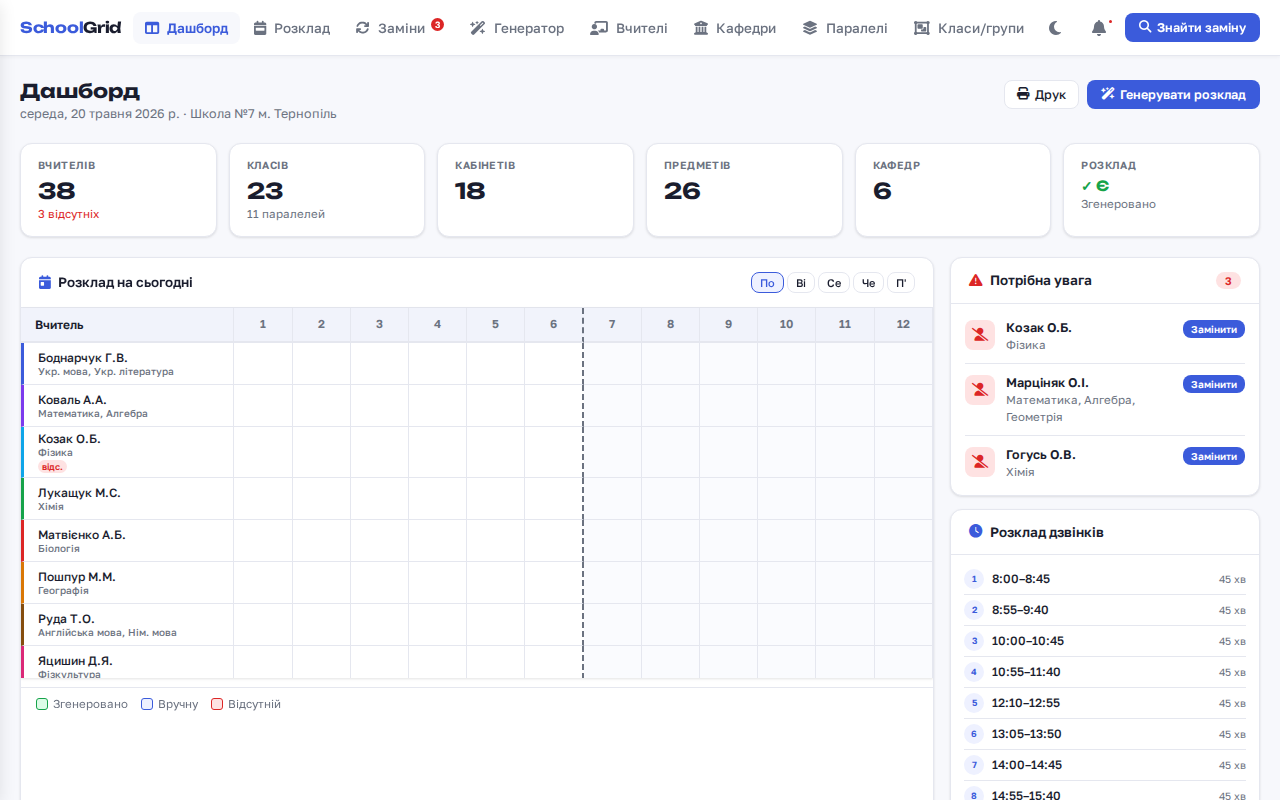
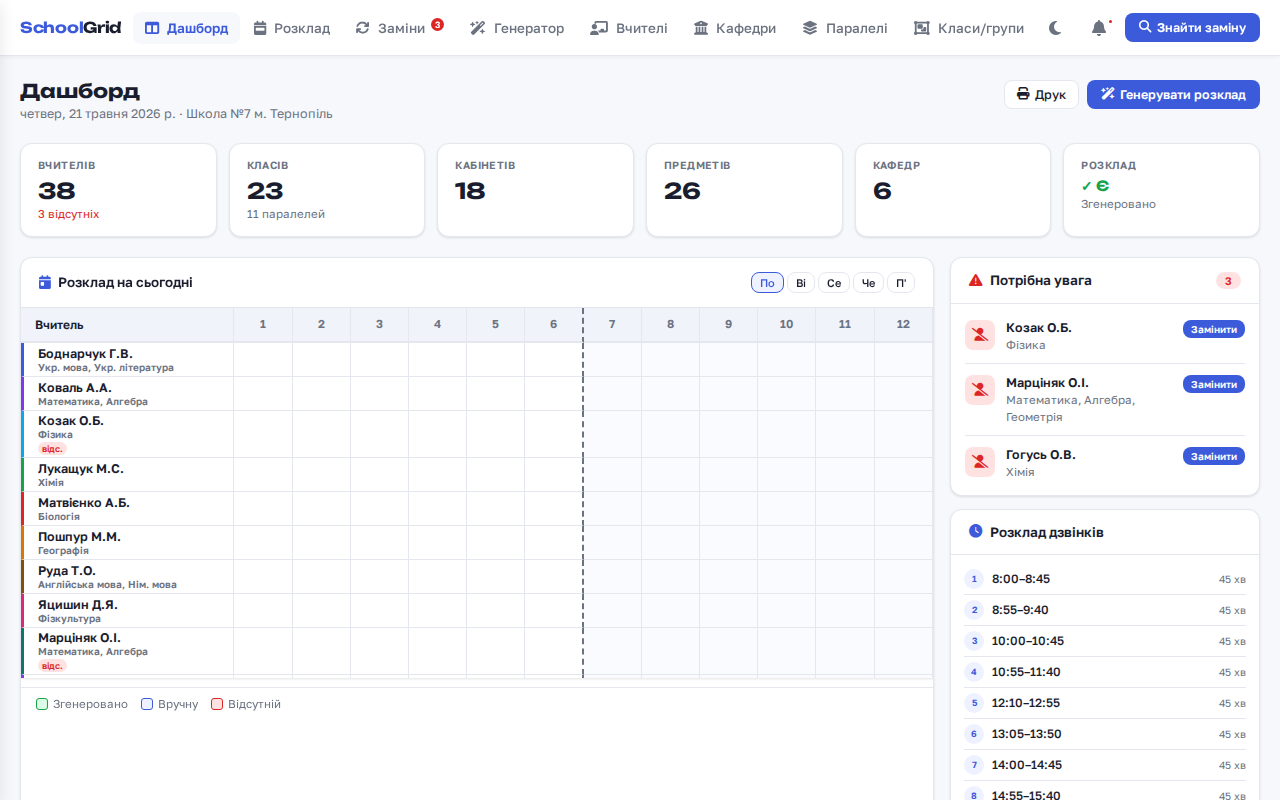
Upgrade SchoolGrid to support 12-lesson days, shifts, and capacity planning
Key changes:
- Expanded lesson count to 12 and updated BELLS data.
- Implemented class shifts (Shift 1: 1-7, Shift 2: 6-12) with 'Shift respect' constraint.
- Added 'No class windows' constraint for contiguous class schedules.
- Added room capacity checks based on student counts in groups.
- Improved UI readability: larger fonts, compact grid heights, and shift/day separators.
- Enhanced Dashboard rendering and fixed sticky header overlaps.
- Added data migration for existing 8-lesson schedules.
- Verified visual changes and generation logic via Playwright.

Changed region(s): [[0.0, 0.4375, 0.1562, 0.875], [0.0312, 0.125, 0.25, 0.1562]]

diff --git a/styles/main.css b/styles/main.css
@@ -97,26 +97,27 @@ table.grid thead th{border-bottom:2px solid var(--border)}
 table.grid th.tc{text-align:left;min-width:170px;padding-left:14px;font-size:12px;text-transform:none;color:var(--text);letter-spacing:0;font-weight:700;position:sticky;left:0;z-index:11}
 table.grid thead tr:nth-child(1) th.tc { z-index: 12 }
 table.grid thead tr:nth-child(2) th.tc { z-index: 12; top: 35px }
-table.grid td{padding:4px 3px;border-bottom:1px solid var(--border);border-right:1px solid var(--border);vertical-align:middle;text-align:center;min-width:48px;height:42px}
-table.grid td.tn{text-align:left;padding:4px 4px 4px 14px;font-weight:500;font-size:12px;background:var(--white);position:sticky;left:0;z-index:1;min-width:155px;cursor:pointer;border-left:3px solid transparent}
+table.grid td{padding:2px 2px;border-bottom:1px solid var(--border);border-right:1px solid var(--border);vertical-align:middle;text-align:center;min-width:48px;height:34px}
+table.grid td.tn{text-align:left;padding:2px 4px 2px 14px;font-weight:600;font-size:12.5px;background:var(--white);position:sticky;left:0;z-index:1;min-width:155px;cursor:pointer;border-left:3px solid transparent}
 table.grid td.tn:hover{background:var(--accl)}
 table.grid tr:hover td:not(.tn){background:#fafbff}
 table.grid tr:last-child td{border-bottom:none}
 
 /* Lesson cells */
-.lc{background:var(--accl);color:var(--acc);border-radius:4px;padding:4px 6px;font-weight:700;font-size:14px;cursor:pointer;transition:.12s;line-height:1.1;display:flex;flex-direction:column;align-items:center;min-width:48px;text-align:center;gap:1px;box-shadow: 0 1px 2px rgba(0,0,0,0.1)}
+.lc{background:var(--accl);color:var(--acc);border-radius:4px;padding:2px 4px;font-weight:700;font-size:15px;cursor:pointer;transition:.12s;line-height:1.1;display:flex;flex-direction:column;align-items:center;min-width:48px;text-align:center;gap:0;box-shadow: 0 1px 2px rgba(0,0,0,0.1)}
 .lc:hover{background:var(--acc);color:#fff;transform:scale(1.05);z-index:5;position:relative}
 .lc.lab{background:var(--errbg);color:var(--err)}
 .lc.lgen{background:var(--okbg);color:var(--ok)}
 .lc.lgrp{background:var(--purbg);color:var(--pur)}
-.lnum{font-size:10.5px;opacity:.7;display:block;line-height:1;margin-top:2px}
-.lroom{font-size:11.5px;font-weight:800;opacity:1;margin-top:1px;background:rgba(255,255,255,0.4);padding:1px 3px;border-radius:3px;color:inherit;border:1px solid rgba(0,0,0,0.05)}
-.lgroup{font-size:11px;font-style:italic;line-height:1;font-weight:600;color:inherit;opacity:0.85}
+.lnum{font-size:10px;opacity:.7;display:block;line-height:1;margin-top:1px}
+.lroom{font-size:12.5px;font-weight:800;opacity:1;margin-top:0;background:rgba(255,255,255,0.4);padding:1px 4px;border-radius:3px;color:inherit;border:1px solid rgba(0,0,0,0.05)}
+.lgroup{font-size:12px;font-style:italic;line-height:1;font-weight:600;color:inherit;opacity:0.85}
 
 /* Week View Specific */
-.grid.week-view .lc { font-size: 13.5px; padding: 3px 5px; min-width: 44px; }
-.grid.week-view .lroom { font-size: 10px; padding: 0 2px; }
-.grid.week-view .lgroup { font-size: 9.5px; }
+.grid.week-view td { height: 32px; padding: 1px; }
+.grid.week-view .lc { font-size: 14.5px; padding: 1px 3px; min-width: 44px; }
+.grid.week-view .lroom { font-size: 11.5px; padding: 0 3px; }
+.grid.week-view .lgroup { font-size: 11px; }
 
 /* ── SHIFT & DAY SPLITS ── */
 .day-sep { border-right: 3px solid var(--acc)!important; }

diff --git a/js/schedule.js b/js/schedule.js
@@ -155,15 +155,15 @@ function _renderWeekView(thead, tbody, q, sf, hs) {
             ondragover="App.onDragOver(event)" ondragleave="App.onDragLeave(event)" ondrop="App.onDrop(event,${t.id},${d},${l})"
             onmouseenter="App.showTipW(event,'${esc(tip)}')" onmouseleave="App.hideTipW()">
             <span class="lc${t.absent ? ' lab' : hs ? ' lgen' : e.group ? ' lgrp' : ''}"
-              style="background:${col}22;color:${col};border:1px solid ${col}55;cursor:grab;font-size:12px;padding:3px"
+              style="background:${col}22;color:${col};border:1px solid ${col}55;cursor:grab"
               draggable="true"
               ondragstart="App.onDragStart(event,${t.id},${d},${l})"
               ondragend="App.onDragEnd(event)"
               onclick="App.showLD('${esc(JSON.stringify(e))}')"
             >
-              <span class="lgroup" style="font-size:9px">${e.group || ''}</span>
+              <span class="lgroup">${e.group || ''}</span>
               ${cN(cls)}
-              <span class="lroom" style="font-size:9px;padding:0 2px">${room}</span>
+              <span class="lroom">${room}</span>
             </span></td>`;
         } else {
           h += `<td class="droptarget ${clsN}" data-tch="${t.id}" data-day="${d}" data-slot="${l}"
